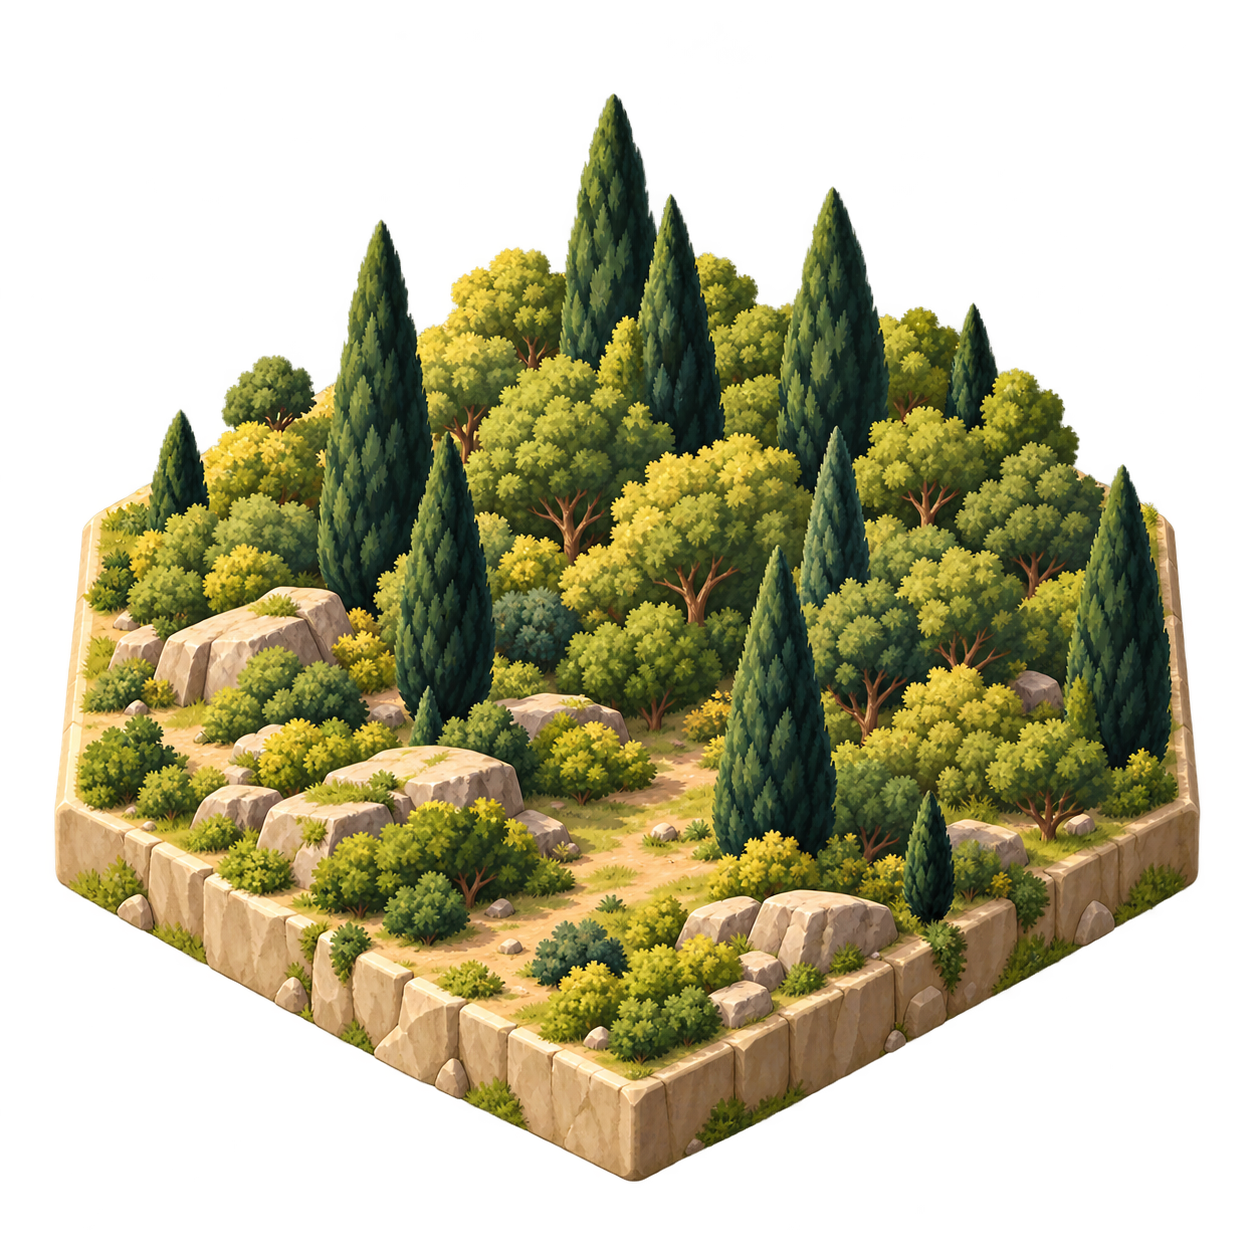
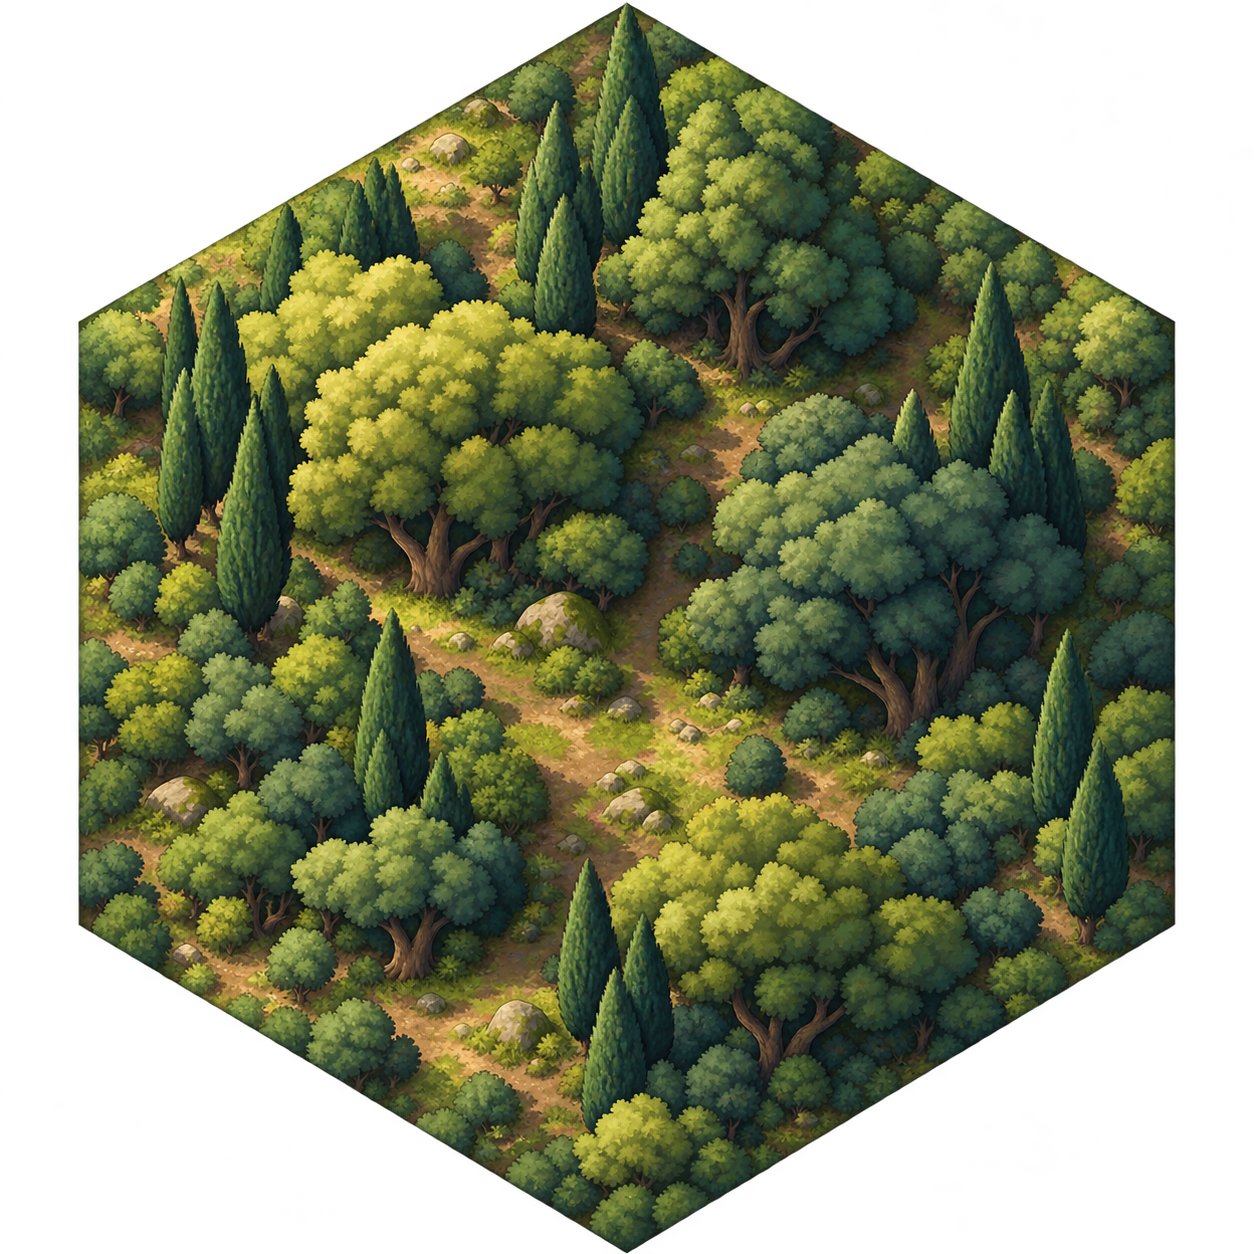
Render updated terrain paintings across full board hexes

diff --git a/src/game/scenes/GameScene.ts b/src/game/scenes/GameScene.ts
@@ -29,6 +29,14 @@ const BACKGROUND_KEY = 'achaemenid-palace';
 const RESOURCE_SHEET_KEY = 'resource-icons';
 const BACKGROUND_PATH = `${import.meta.env.BASE_URL}assets/backgrounds/achaemenid-palace-terrace-sunset.png`;
 const RESOURCE_SHEET_PATH = `${import.meta.env.BASE_URL}assets/resources/resources.png`;
+const TERRAIN_KEYS: Record<TerrainType, string> = {
+    forest: 'terrain-forest',
+    mesa: 'terrain-mesa',
+    wheat: 'terrain-wheat',
+    pasture: 'terrain-pasture',
+    mountain: 'terrain-mountain',
+    desert: 'terrain-desert',
+};
 
 const RESOURCE_FRAMES: Record<ResourceType, { x: number; y: number; width: number; height: number }> = {
     wood: { x: 44, y: 164, width: 476, height: 404 },
@@ -64,6 +72,9 @@ export class GameScene extends Scene {
     preload(): void {
         this.load.image(BACKGROUND_KEY, BACKGROUND_PATH);
         this.load.image(RESOURCE_SHEET_KEY, RESOURCE_SHEET_PATH);
+        for (const [terrain, key] of Object.entries(TERRAIN_KEYS)) {
+            this.load.image(key, `${import.meta.env.BASE_URL}assets/board/terrains/${terrain}.png`);
+        }
     }
 
     create(): void {
@@ -226,15 +237,31 @@ export class GameScene extends Scene {
         tileGraphics.strokePath();
         this.ui.add(tileGraphics);
 
-        if (tile.number !== null) {
-            this.addCircle(centerX, centerY - 5, 17, 0xf0dfb7, 1, 0x392f25);
-            this.addText(centerX, centerY - 5, this.toPersianNumber(tile.number), 14, tile.number === 6 || tile.number === 8 ? '#a33d2e' : '#332a22');
-        } else {
-            this.addText(centerX, centerY - 5, FA.desert, 12, '#2f261d');
+        // The point-up hex fills the source canvas vertically; preserve its aspect
+        // ratio and clip stray export pixels to the same geometry as the board.
+        const terrain = this.add.image(centerX, centerY, TERRAIN_KEYS[tile.terrain]);
+        terrain.setScale((HEX_SIZE * 2) / terrain.height);
+        const maskShape = this.add.graphics({ x: centerX, y: centerY });
+        maskShape.fillStyle(0xffffff);
+        maskShape.beginPath();
+        maskShape.moveTo(points[0].x, points[0].y);
+        for (const point of points.slice(1)) {
+            maskShape.lineTo(point.x, point.y);
         }
+        maskShape.closePath();
+        maskShape.fillPath();
+        maskShape.setVisible(false);
+        const mask = maskShape.createGeometryMask();
+        terrain.setMask(mask);
+        terrain.once('destroy', () => mask.destroy());
+        this.ui.add([terrain, maskShape]);
 
-        if (tile.resource !== null) {
-            this.addText(centerX, centerY + 19, this.resourceShortLabel(tile.resource), 10, '#fff0d5');
+        if (tile.number !== null) {
+            this.addCircle(centerX, centerY + 19, 12, 0xf0dfb7, 1, 0x392f25);
+            this.addText(centerX, centerY + 19, this.toPersianNumber(tile.number), 14, tile.number === 6 || tile.number === 8 ? '#a33d2e' : '#332a22');
+        } else {
+            const label = this.addText(centerX, centerY + 19, FA.desert, 11, '#2f261d');
+            label.setBackgroundColor('#f0dfb7').setPadding(4, 2);
         }
 
         if (tile.robber) {
@@ -528,10 +555,6 @@ export class GameScene extends Scene {
             { x: x2 - offsetX, y: y2 - offsetY },
             { x: x1 - offsetX, y: y1 - offsetY },
         ]);
-    }
-
-    private resourceShortLabel(resource: ResourceType): string {
-        return FA.resources[resource];
     }
 
     private toPersianNumber(value: number): string {

diff --git a/docs/ASSET_GUIDE.md b/docs/ASSET_GUIDE.md
@@ -41,7 +41,7 @@ Use a stable asset key in code and build the URL from `import.meta.env.BASE_URL`
 ## Current files
 
 - `backgrounds/achaemenid-palace-terrace-sunset.png`: portrait palace background used by the initial scene.
-- `board/terrains/`: desert, forest, mesa, mountain, pasture, and wheat illustrations.
+- `board/terrains/`: desert, forest, mesa, mountain, pasture, and wheat illustrations, loaded by `GameScene` with stable `terrain-` keys and displayed on their corresponding board hexes.
 - `dice/dice.png`: dice artwork; frame layout has not been documented.
 - `pieces/`: city, road, and settlement illustrations.
 - `resources/resources.png`: five transparent resource illustrations. Runtime frame rectangles are declared in `src/game/scenes/GameScene.ts` and reused for the hand icons.
@@ -54,6 +54,8 @@ Use a stable asset key in code and build the URL from `import.meta.env.BASE_URL`
 | Wool | `244, 608, 484, 392` |
 | Stone | `768, 584, 496, 420` |
 
-The MVP maps forest to wood, mesa to brick, wheat to wheat, pasture to wool, and mountain to stone. It draws terrain hexes and runtime player-colored pieces with Phaser Graphics because the terrain files are scenic isometric landforms rather than flat hex tiles, and player ownership colors must not be baked into assets.
+The MVP maps forest to wood, mesa to brick, wheat to wheat, pasture to wool, and mountain to stone. The six terrain sources are 1254 × 1254 RGBA PNGs with transparent backgrounds and point-up hex compositions. They load directly at their original resolution, scale proportionally to the full tile height, and remain centered on the board geometry. A geometry mask clips stray pixels outside each exact hex boundary; a colored backplate covers minor transparent edge gaps. Masks are destroyed with their tile images on each UI redraw. Number tokens and the desert label remain runtime overlays. Roads and player-colored pieces render above the terrain with Phaser Graphics; ownership colors remain runtime data.
+
+No runtime background removal or intermediate downsampling is applied. Keep transparency and the shared hex alignment when replacing the artwork. The originals remain individual PNGs; no terrain atlas is required by the current loader.
 
 The art is retained from the existing project. Recheck the resource crop rectangles against the source atlas if that image changes. Review dice frame bounds and building-art ownership suitability before integrating those images into gameplay.

diff --git a/docs/ART_DIRECTION.md b/docs/ART_DIRECTION.md
@@ -21,4 +21,4 @@ The repository includes a palace terrace background and illustrated terrain, dic
 
 ## MVP presentation
 
-The current MVP uses the palace art as a subdued background, draws clear hexes and player pieces at runtime, and crops the existing resource sheet for the hand display. The scenic terrain images are retained for later art use; their isometric landform compositions are not used as flat hex faces.
+The current MVP uses the palace art as a subdued background and displays the terrain paintings across the full faces of point-up runtime hexes. Keep the paintings centered, preserve their aspect ratio, and clip export fringes at the hex boundary. Number tokens sit near the lower part of each tile to leave the landscape visible; roads and player pieces render above the artwork. The existing resource sheet supplies the hand icons.
